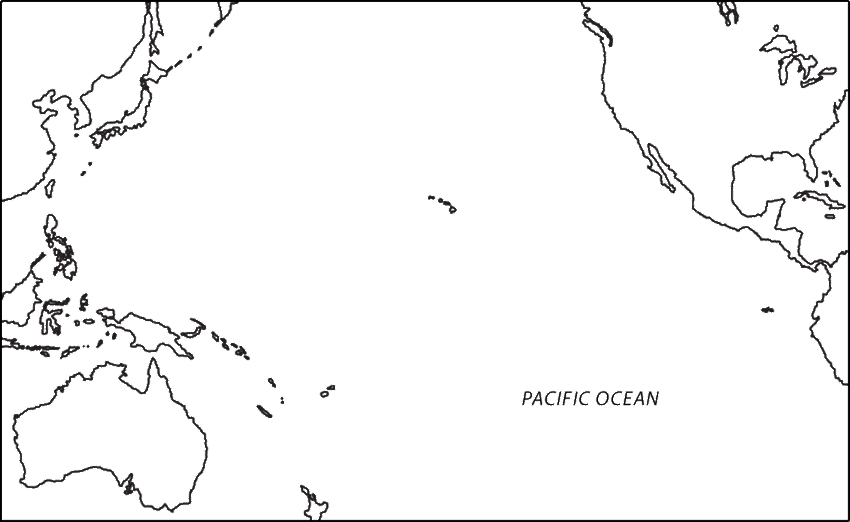
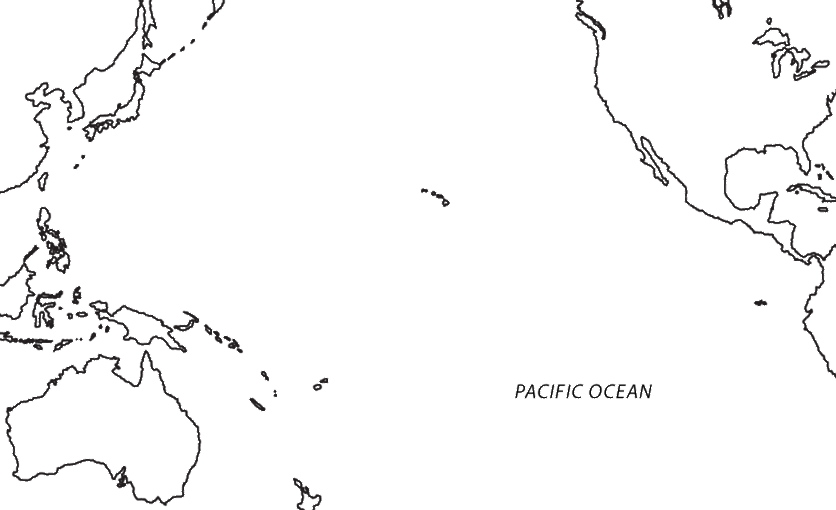
added pacific map background image

diff --git a/app/startup/main.html b/app/startup/main.html
@@ -5,8 +5,11 @@
   <title>Hurricane Path Simulator</title>
   <style>
     canvas {
-      border: 1px solid;
       margin: 10px;
+      border: 1px solid black;
+      background-image: url("../images/pacific.png");
+      background-repeat: no-repeat;
+      background-position: -20px;
     }
   </style>
   <link href="https://cdn.jsdelivr.net/npm/bootstrap@5.2.3/dist/css/bootstrap.min.css" rel="stylesheet" integrity="sha384-rbsA2VBKQhggwzxH7pPCaAqO46MgnOM80zW1RWuH61DGLwZJEdK2Kadq2F9CUG65" crossorigin="anonymous">
@@ -98,4 +101,7 @@
 </body>
 </html>
 
-<!-- accordion code source: https://getbootstrap.com/docs/5.2/components/accordion/ -->
+<!-- SOURCES
+  accordion code: https://getbootstrap.com/docs/5.2/components/accordion/
+  pacific map: https://www.researchgate.net/profile/Eleanor-Sterling-2/publication/275607188/figure/fig1/AS:369365624082432@1465075035023/Map-of-Pacific-Ocean-showing-location-of-Palmyra-Atoll.png
+-->
